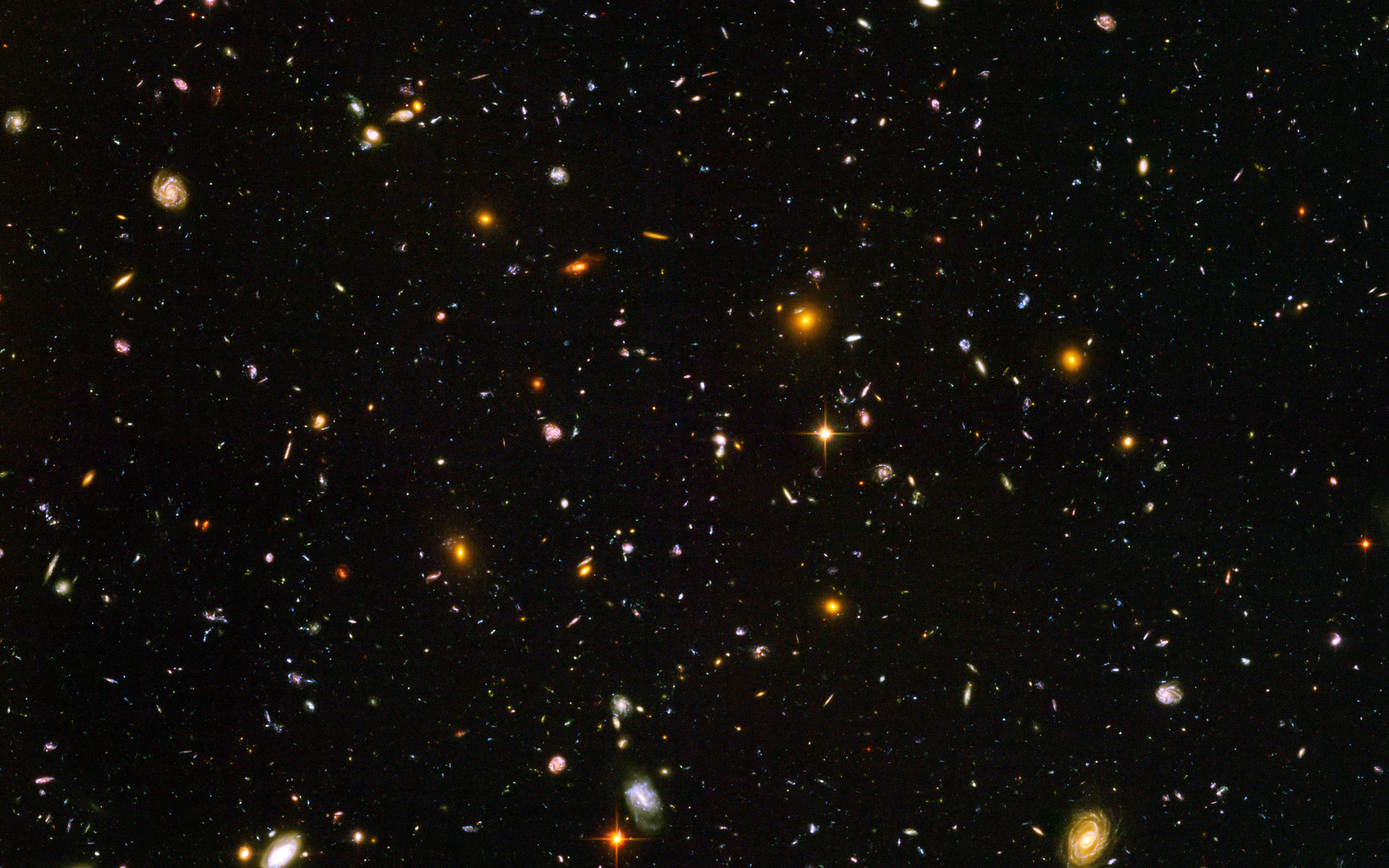
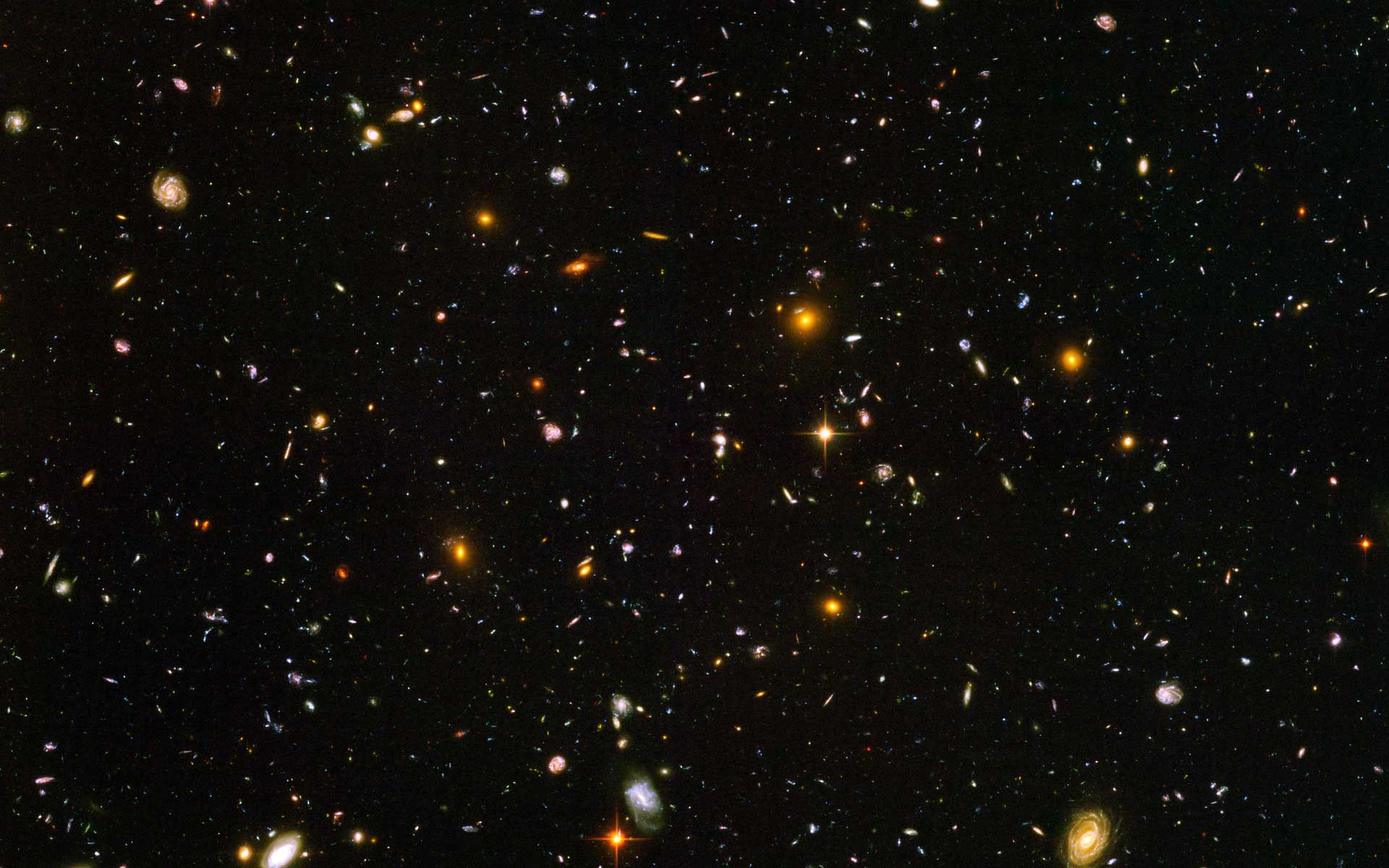
background otimization and animation added on footer of the home page
original contact page background size: 96759KB. New size: 171.31KB

diff --git a/css/style.css b/css/style.css
@@ -304,3 +304,71 @@ html {
   height: 200px;
   width: 100%;
 }
+
+.footer a {
+  transition: all 2s;
+  animation: click-link 1s reverse infinite
+}
+
+.footer a:hover {
+  color: rgb(255, 251, 0);
+  font-size: 42px;
+}
+
+@keyframes click-link {
+  0% {
+    font-size: 32px;
+    color: rgb(255, 0, 0);
+  }
+  10% {
+    color: rgb(255, 157, 0);
+    opacity: 1
+  }
+
+  20% {
+    color: rgb(255, 230, 0);
+    opacity: 1;
+  }
+
+  30% {
+    color: rgb(187, 255, 0);
+  }
+
+  40% {
+    color: rgb(72, 255, 0);
+    opacity: 1;
+  }
+
+  50% {
+    color: rgb(0, 255, 179);
+    opacity: 1;
+    font-size: 42px;
+  }
+
+  60% {
+    color: rgb(0, 153, 255);
+    opacity: 1;
+  }
+
+  70% {
+    color: rgb(4, 0, 255);
+    opacity: 1;
+  }
+
+  80% {
+    color: rgb(98, 0, 255);
+    opacity: 1;
+  }
+
+  90% {
+    color: rgb(255, 0, 191);
+    opacity: 1;
+  }
+
+  100% {
+    color: rgb(255, 0, 0);
+    opacity: 1;
+    font-size: 32px
+  }
+
+}

diff --git a/index.html b/index.html
@@ -159,7 +159,7 @@
     </div>
 
     <footer class="footer">
-      <i style="font-size: 32px;">GitHub: Cauamattosprj</i>
+      <i style="font-size: 32px;"><a href="https://github.com/Cauamattosprj">GitHub: Cauamattosprj</a></i>
     </footer>
   </body>
 </html>
